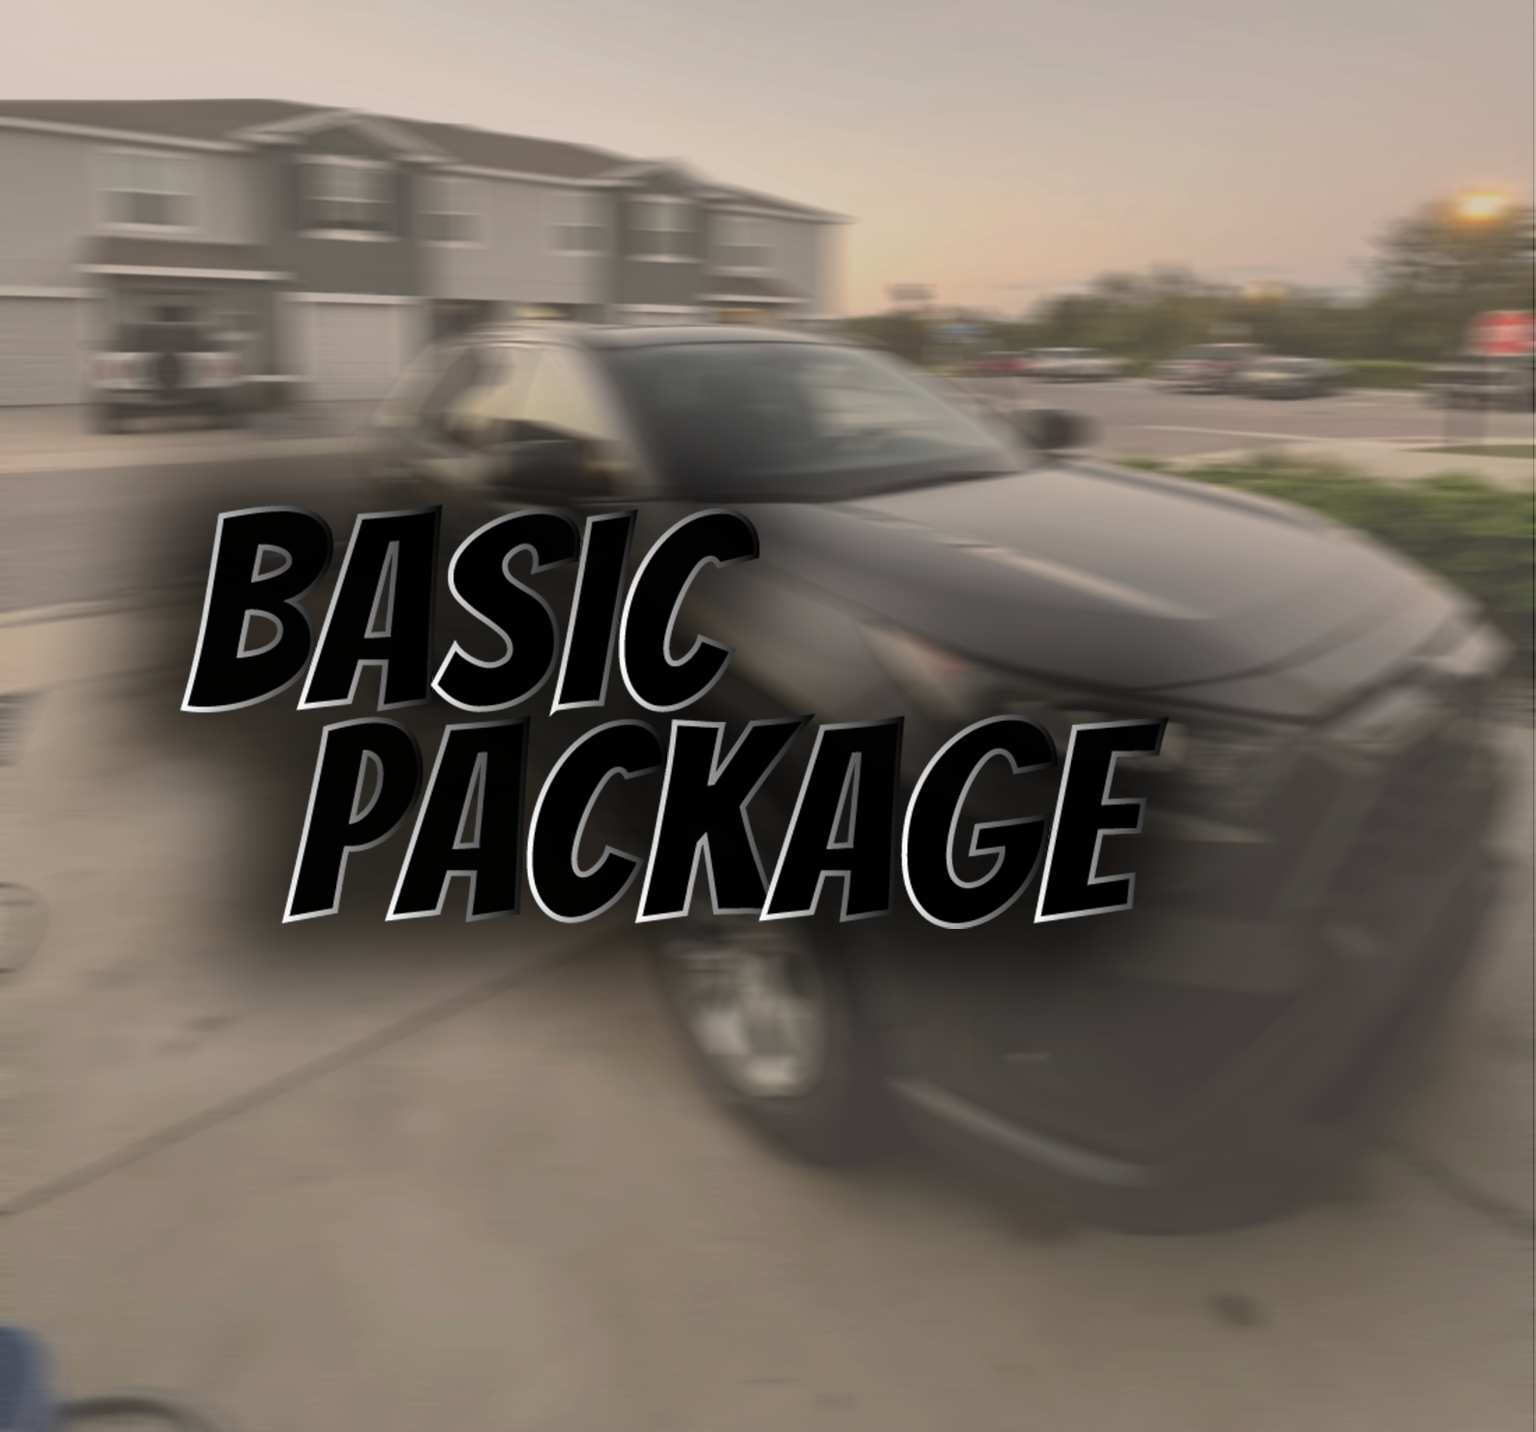
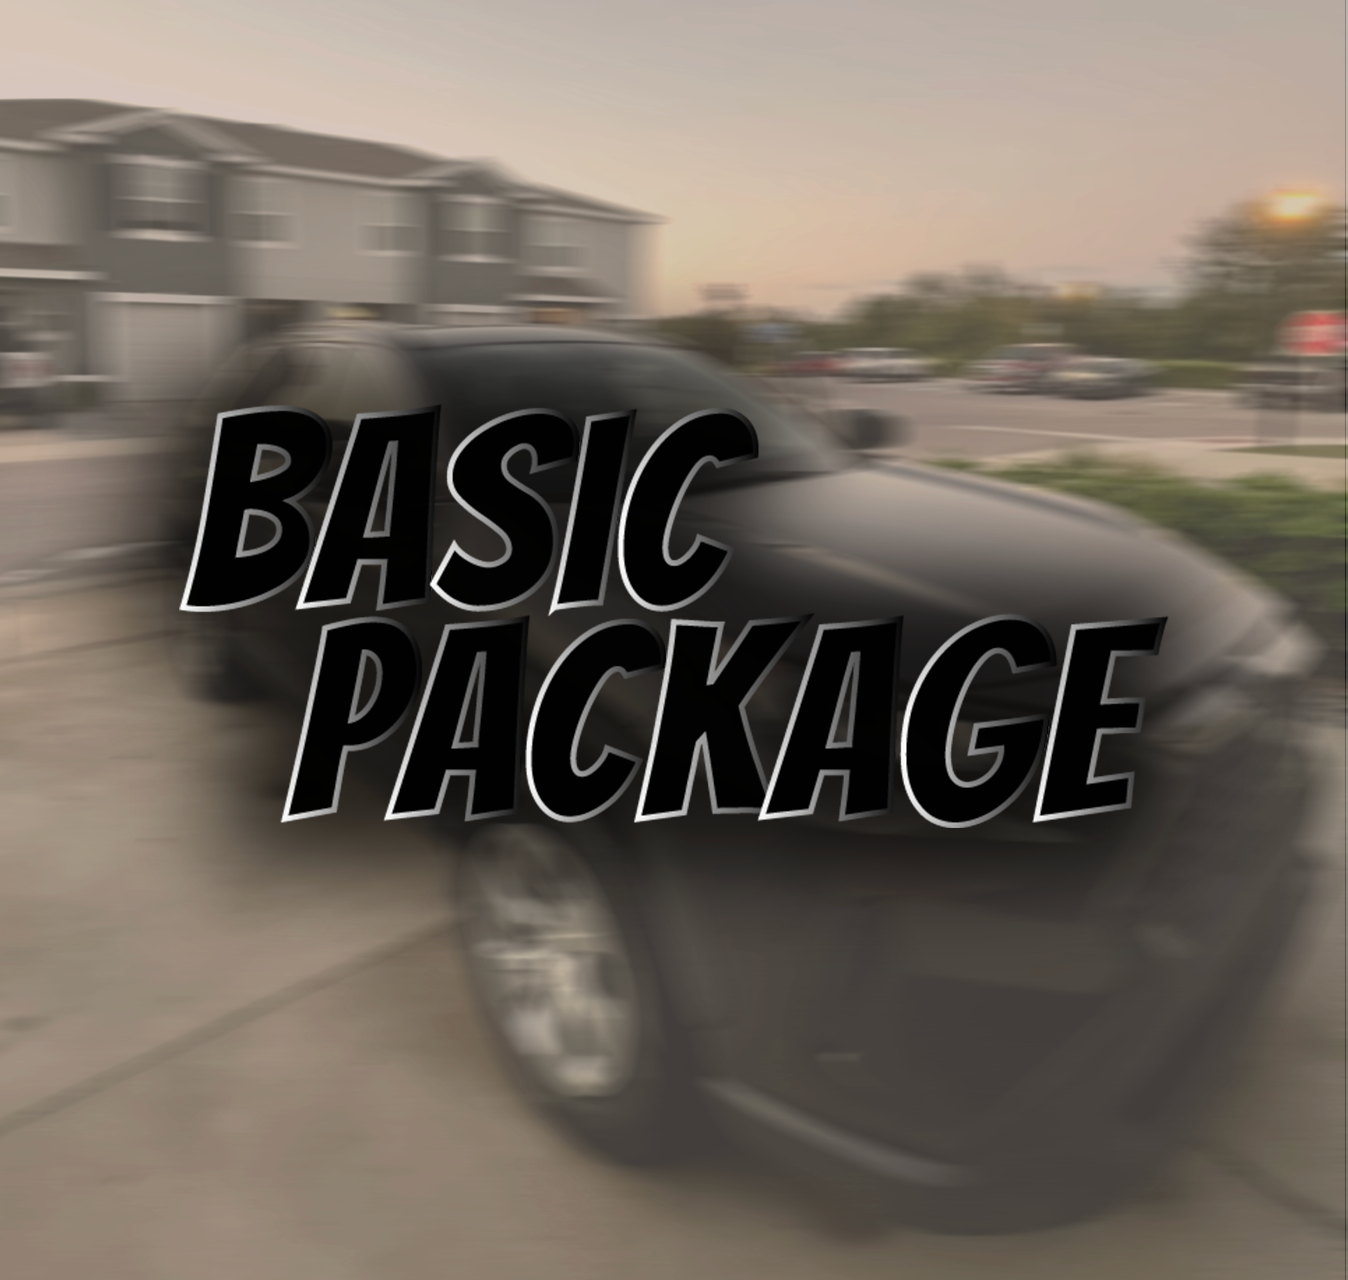
changes

diff --git a/index.html b/index.html
@@ -5,11 +5,26 @@
     <meta name="viewport" content="width=device-width, initial-scale=1.0">
     <title>Car Detailing</title>
     <link href="https://fonts.googleapis.com/css2?family=Poppins:wght@300;400;600&family=Roboto:wght@400;500&display=swap" rel="stylesheet">
-    <link rel="stylesheet" href="Style.css">
+    <link rel="stylesheet" href="packsstyles.css">
     <link rel="stylesheet" href="https://cdnjs.cloudflare.com/ajax/libs/font-awesome/6.0.0-beta3/css/all.min.css">
     <script src="functions.js"></script>
 </head>
 <body>
+
+    <!-- Navigation Bar -->
+    <div class="navbar">
+        <div class="logo-container">
+            <img src="files/Logo.png" alt="Logo">
+            <a href="index.html">Home</a>
+        </div>
+        <div class="nav-links">
+            <a href="index.html#services">Our Services</a>
+            <a href="packages.html">Our packages</a>
+            <a href="appoiments.html">Make an Appointment</a>
+            <a href="#reviews">Client Reviews</a>
+            <a href="products.html">Products We Use</a>
+        </div>
+    </div>
 
     <!-- Navigation Bar -->
     <div class="navbar">

diff --git a/appoiments.html b/appoiments.html
@@ -3,9 +3,10 @@
 <head>
     <meta charset="UTF-8">
     <meta name="viewport" content="width=device-width, initial-scale=1.0">
-    <title>Make an Appointment</title>
+    <title>Car Detailing</title>
     <link href="https://fonts.googleapis.com/css2?family=Poppins:wght@300;400;600&family=Roboto:wght@400;500&display=swap" rel="stylesheet">
-    <link rel="stylesheet" href="Style.css">
+    <link rel="stylesheet" href="packsstyles.css">
+    <link rel="stylesheet" href="https://cdnjs.cloudflare.com/ajax/libs/font-awesome/6.0.0-beta3/css/all.min.css">
     <script src="functions.js"></script>
 </head>
 <body>
@@ -18,8 +19,9 @@
         </div>
         <div class="nav-links">
             <a href="index.html#services">Our Services</a>
-            <a href="appointments.html">Make an Appointment</a>
+            <a href="packages.html">Our packages</a>
+            <a href="appoiments.html">Make an Appointment</a>
             <a href="#reviews">Client Reviews</a>
-            <a href="#products">Products We Use</a>
+            <a href="products.html">Products We Use</a>
         </div>
     </div>
